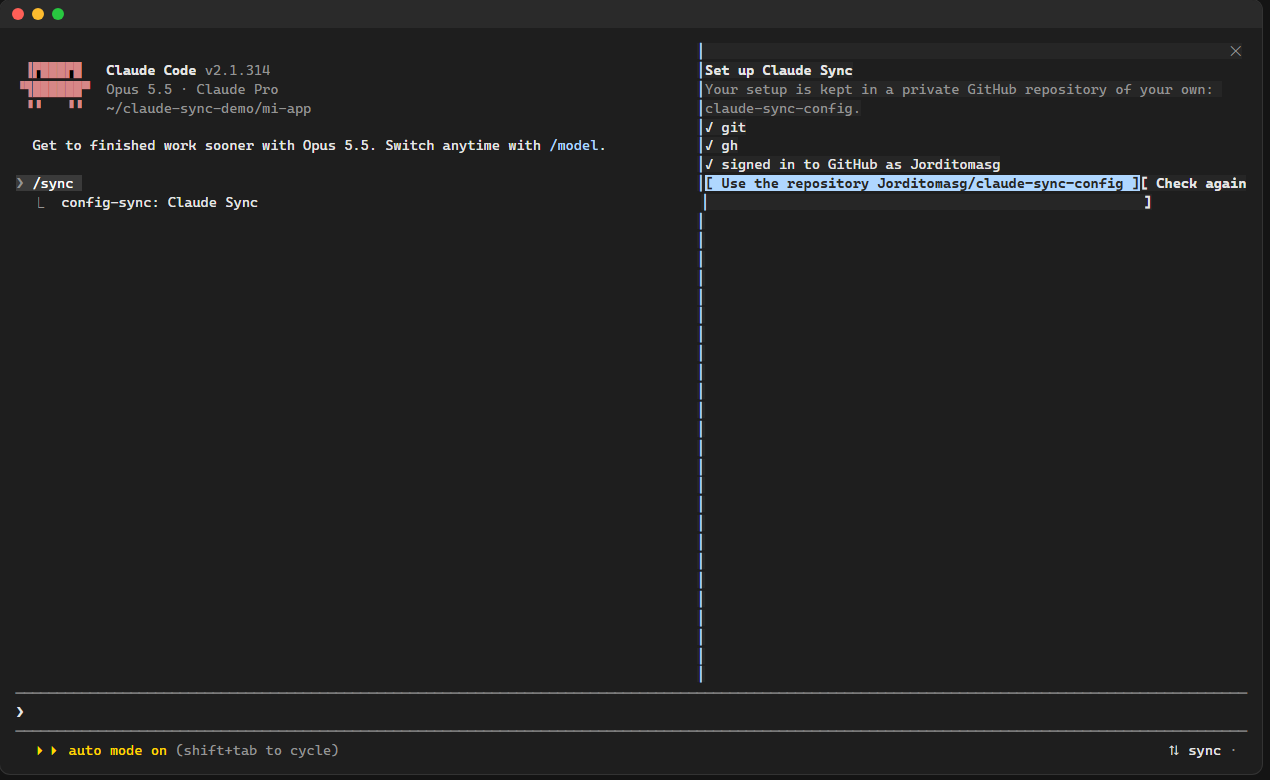
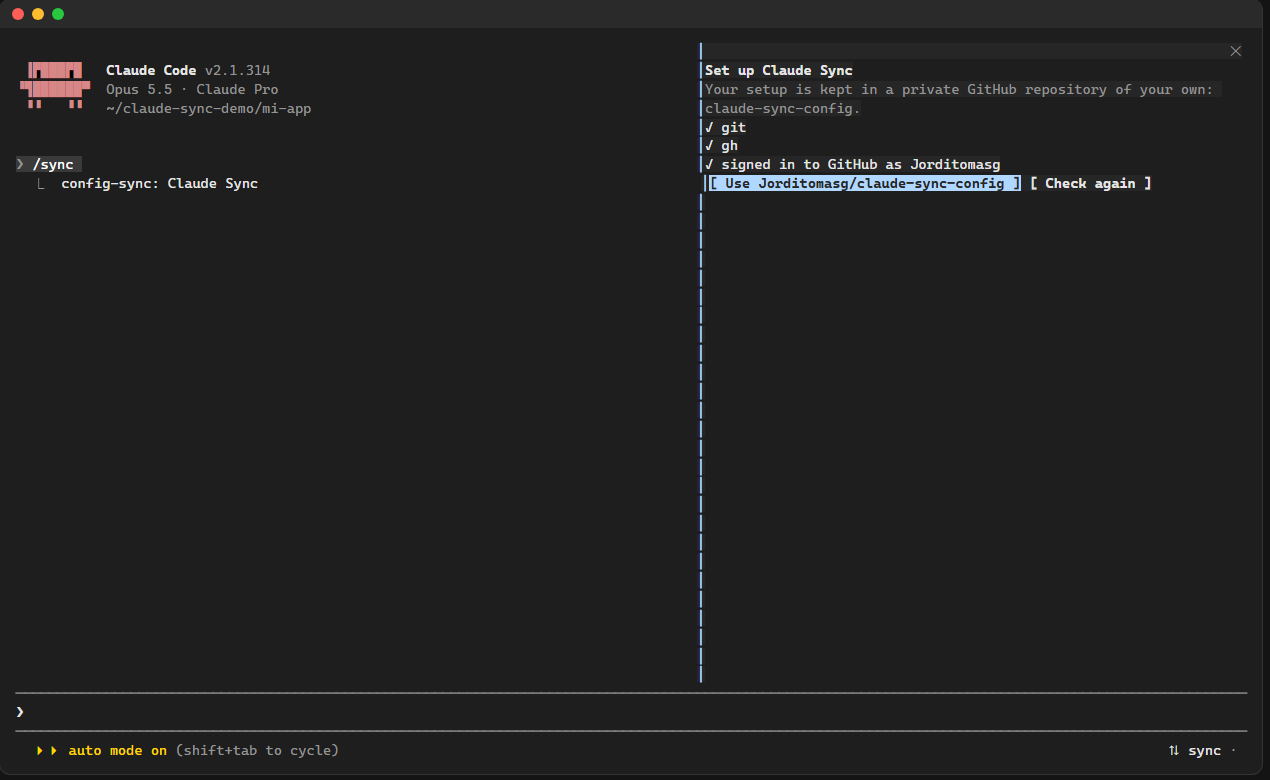
docs: el botón de configuración se llama «Usar <tú>/claude-sync-config» y la captura lo muestra

Changed region(s): [[0.0, 0.1846, 0.2764, 0.2769], [0.5528, 0.2154, 0.9827, 0.2462], [0.3071, 0.1846, 0.4606, 0.2154]]

diff --git a/README.es.md b/README.es.md
@@ -84,7 +84,7 @@ Responde `y` si te pregunta si añadir el marketplace y elige el ámbito **user*
    ![El botón en la barra inferior](docs/images/screenshot-footer-chip.png)
 2. El panel comprueba `git` y `gh`. Pulsa **Iniciar sesión en GitHub**: aparecen un código de un solo uso y un enlace; abre el enlace, pega el código y acepta. Si no termina, escribe `! gh auth login` en el prompt y pulsa **Comprobar otra vez**.
    ![Pantalla de configuración](docs/images/screenshot-setup.png)
-3. Pulsa **Usar el repositorio `<tú>/claude-sync-config`**. Si no existe, se crea privado.
+3. Pulsa **Usar `<tú>/claude-sync-config`**. Si no existe, se crea privado.
 4. Escribe el nombre de tu primer perfil (por ejemplo `casa`) y pulsa Enter.
 5. Aparece el árbol con todo lo que hay en este equipo, por categorías. **Enter** sobre una categoría la abre; **Enter** sobre un elemento lo marca; `todo` / `nada` marcan una categoría entera. Los hooks se llevan consigo los scripts que ejecutan.
    ![El árbol de selección](docs/images/screenshot-tree.png)
@@ -108,7 +108,7 @@ Desde entonces el botón muestra `⇅ casa`, con `●` cuando tienes cambios sin
 ## 5. En tu segundo equipo
 
 1. Instala `git` y `gh` (sección 2) y el plugin (sección 3).
-2. Escribe `/sync`, inicia sesión y pulsa **Usar el repositorio**.
+2. Escribe `/sync`, inicia sesión y pulsa **Usar `<tú>/claude-sync-config`**.
 3. Elige tu perfil. Revisa el árbol: lo nuevo viene marcado; lo `⚠ otro sistema` (por ejemplo un hook de PowerShell en un Mac) se queda fuera; los conflictos te piden elegir.
 4. Revisa las diferencias y pulsa **Aplicar**. Los ajustes se fusionan en `settings.json` y `~/.claude.json`, nunca se reescriben enteros; se instalan los marketplaces y plugins que falten; se te piden los secretos que este equipo no tenga.
    ![La revisión con diferencias](docs/images/screenshot-diff.png)

diff --git a/README.md b/README.md
@@ -84,7 +84,7 @@ Answer `y` if asked to add the marketplace and pick the **user** scope. A `⇅ s
    ![Chip in the footer](docs/images/screenshot-footer-chip.png)
 2. The panel checks `git` and `gh`. Press **Sign in to GitHub**: a one-time code and a link appear; open the link, paste the code and accept. If it does not finish, type `! gh auth login` at the prompt and press **Check again**.
    ![Setup screen](docs/images/screenshot-setup.png)
-3. Press **Use the repository `<you>/claude-sync-config`**. It is created private if it does not exist.
+3. Press **Use `<you>/claude-sync-config`**. It is created private if it does not exist.
 4. Type a name for your first profile (for example `home`) and press Enter.
 5. You get the tree of everything on this machine, by category. **Enter** on a category opens it; **Enter** on an item ticks it; `all` / `none` tick a whole category. Hooks bring the scripts they run with them.
    ![Selection tree](docs/images/screenshot-tree.png)
@@ -108,7 +108,7 @@ From then on the chip reads `⇅ home`, with `●` when you have changes not upl
 ## 5. On your second machine
 
 1. Install `git` and `gh` (section 2) and the plugin (section 3).
-2. Type `/sync`, sign in and press **Use the repository**.
+2. Type `/sync`, sign in and press **Use `<you>/claude-sync-config`**.
 3. Pick your profile. Review the tree: new items are ticked; `⚠ other system` items (for example a PowerShell hook on a Mac) are left out; conflicts ask you to choose.
 4. Check the differences and press **Apply**. Settings are merged into `settings.json` and `~/.claude.json`, never rewritten whole; missing marketplaces and plugins are installed; you are asked for any secret this machine lacks.
    ![Review with differences](docs/images/screenshot-diff.png)
